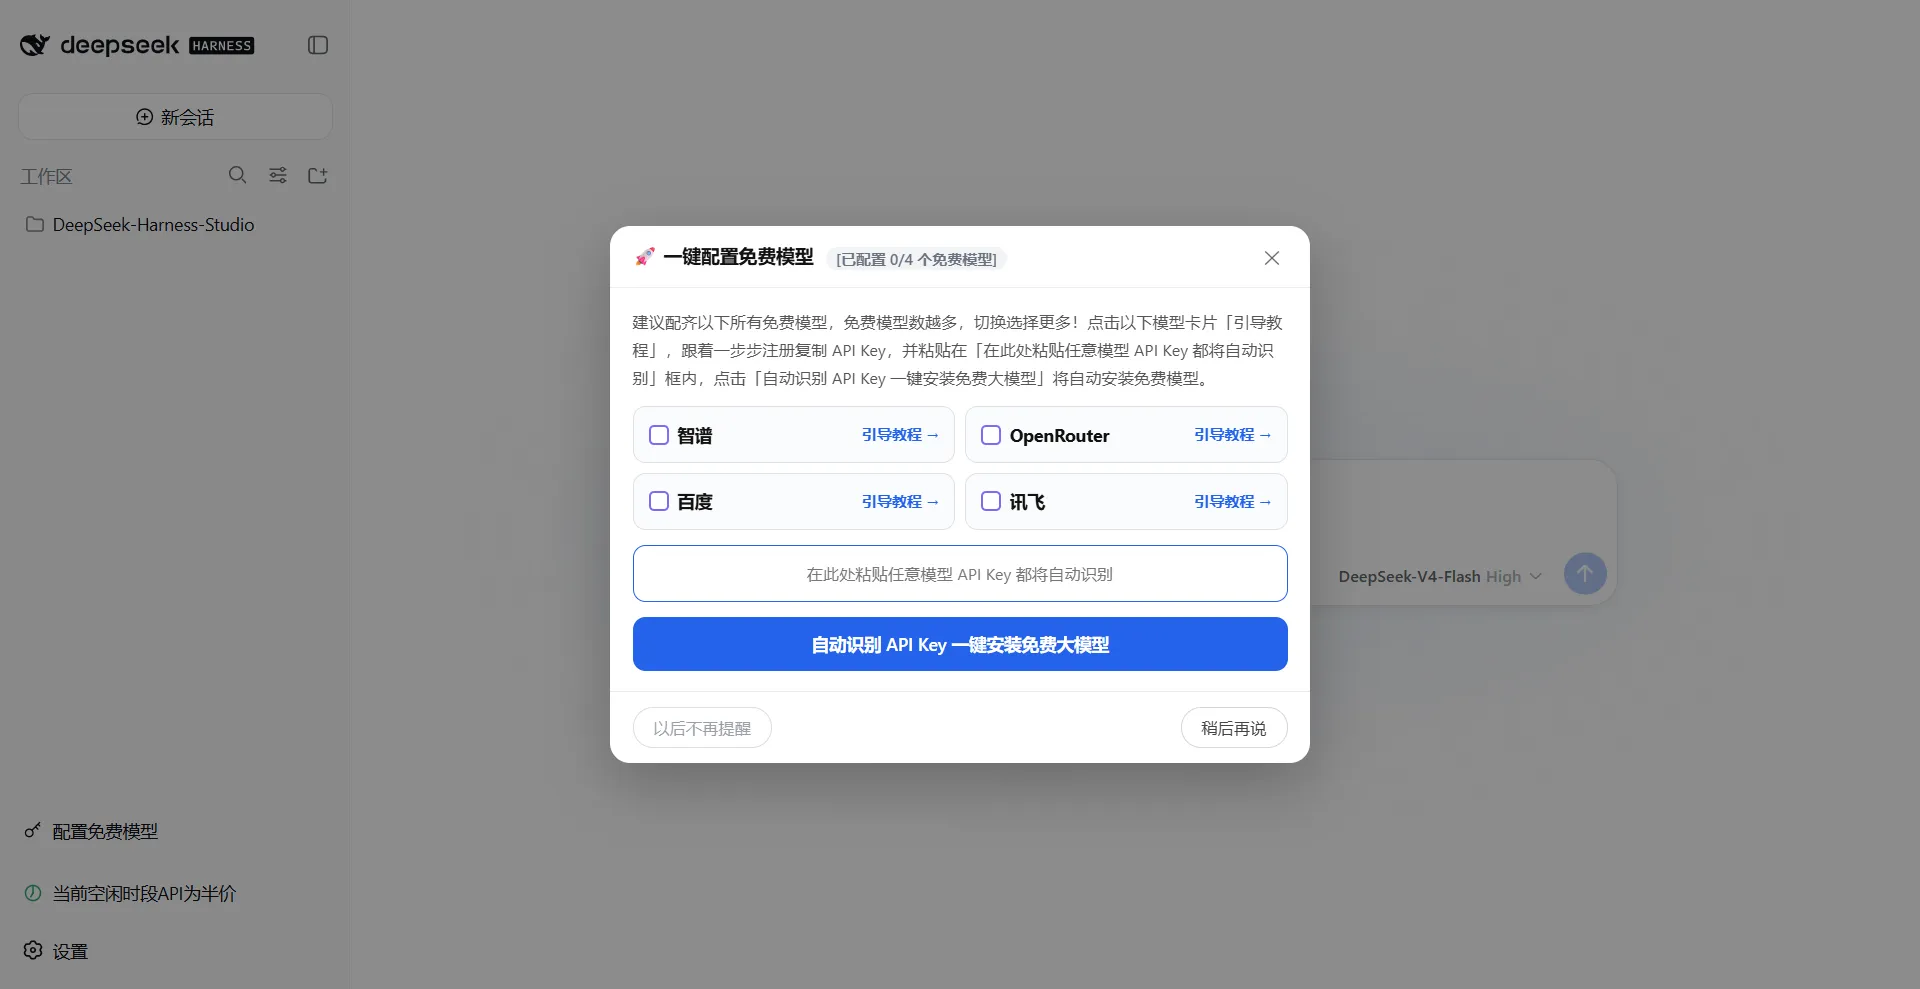
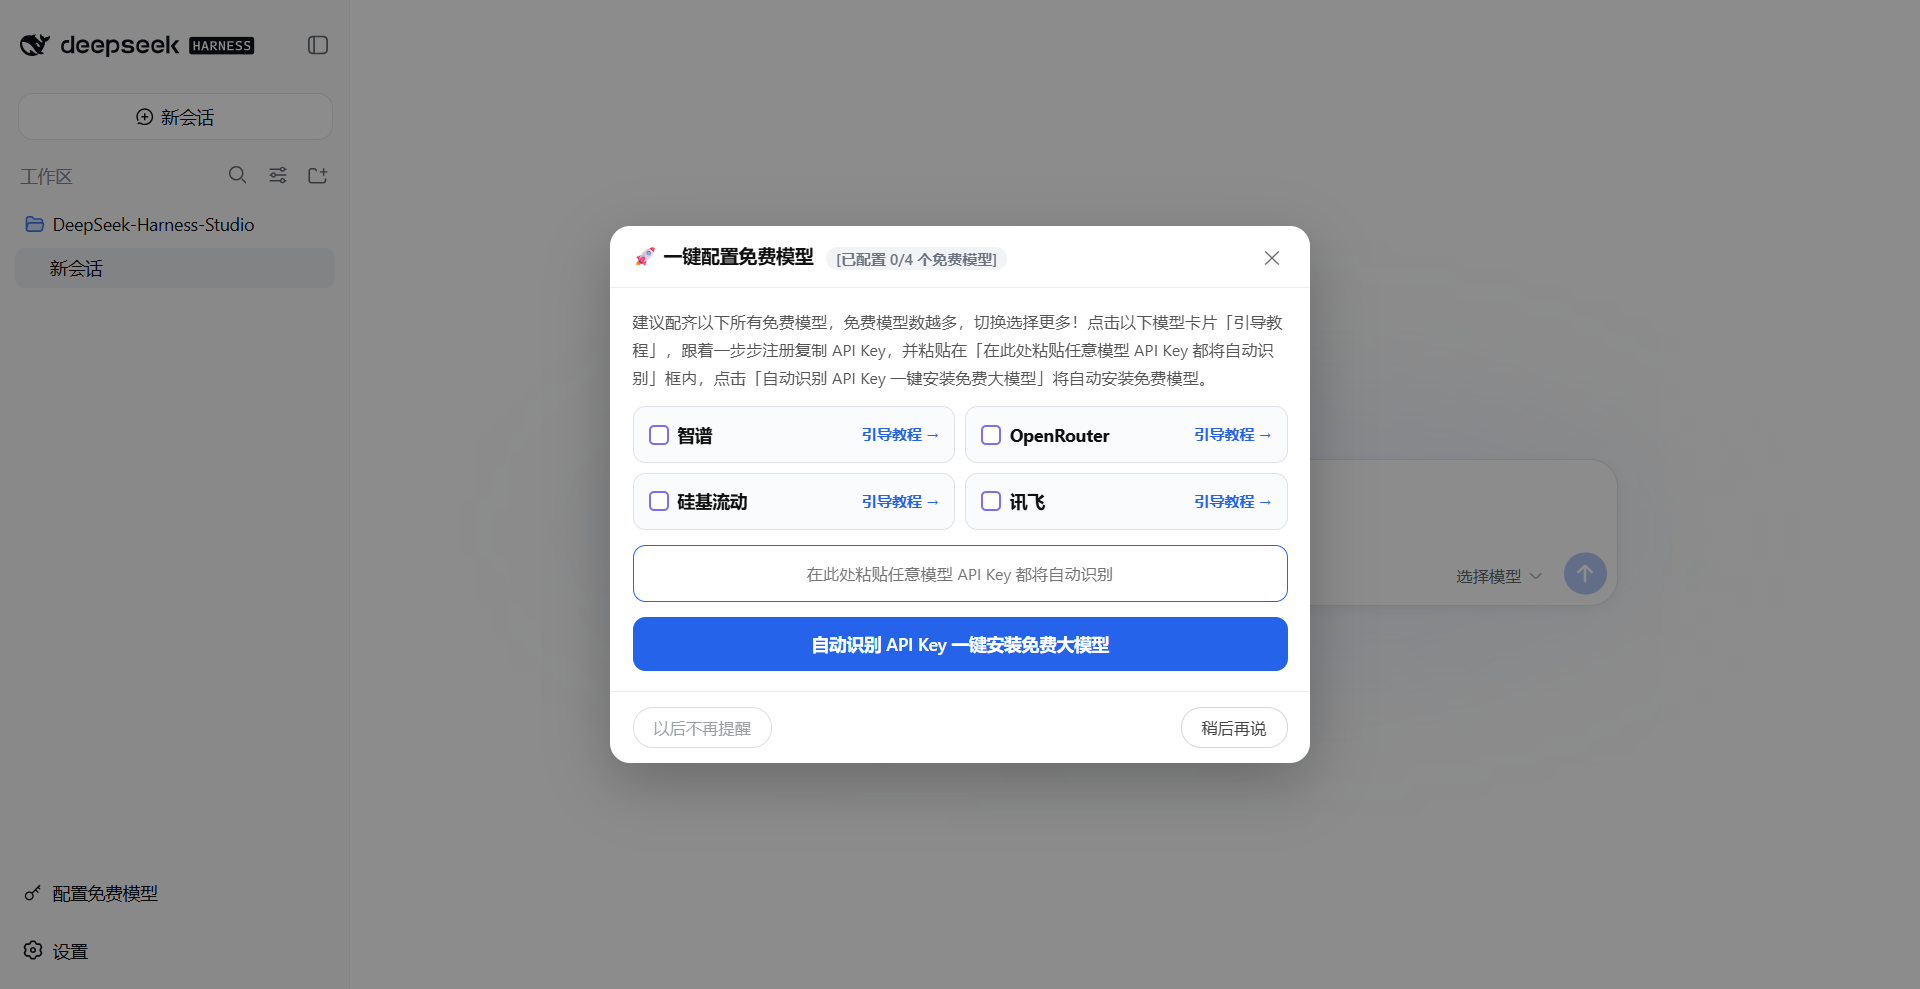
v1.8.5 最终版：测速阈值优化 + 状态指示器样式修复 + README更新
- 测速阈值调整：正常<8秒（原<3秒），较慢8-15秒（原3-8秒），适配国内免费模型
- 状态指示器样式修复：div改回button，恢复右半边圆弧
- 三色球位置移到模型名后面（如'智谱🟢正常'）
- 修复 AUTO_SWITCH_THRESHOLD 未定义 bug（死代码清理残留）
- 讯飞模型 ID 修复：spark-lite → lite（实测正确）
- README更新：删除版本更新历史，只保留当前版本/兼容版本/系统要求
- README更新：讯飞格式说明改为'英文冒号'，'自动工作'改为'自动开始测速监测'
- README更新：状态提示文案更新（三色球在模型名后面），状态判定说明更新
- 截图更新：1.png/2.png/3.png 替换为最新UI（去掉百度模型）

diff --git a/lib/client.js b/lib/client.js
@@ -272,8 +272,8 @@ window.__ModuleLoader__.load({
 		// 记录最近 5 次响应时间取平均，状态判定：<3000ms=可用 / 3000-8000ms=较慢 / >8000ms或超时=不可用。
 		// 定期测速并记录状态，供 UI 组件展示当前模型健康度。
 		const HEALTH_CHECK_INTERVAL = 60000; // 60秒测速一次
-		const HEALTH_LATENCY_OK = 3000;       // <3s = 可用
-		const HEALTH_LATENCY_SLOW = 8000;     // 3-8s = 较慢，>8s = 不可用
+		const HEALTH_LATENCY_OK = 8000;       // <8s = 可用（国内免费模型适配）
+		const HEALTH_LATENCY_SLOW = 15000;    // 8-15s = 较慢，>15s = 不可用
 		const HEALTH_TIMEOUT = 15000;          // 单次测速超时 15s
 		const HEALTH_HISTORY_SIZE = 5;         // 保留最近 5 次测速结果
 
@@ -366,7 +366,7 @@ window.__ModuleLoader__.load({
 			} else {
 				// 测速失败：连续失败计数+1
 				s.consecutiveUnavailable = (s.consecutiveUnavailable || 0) + 1;
-				if (s.latencies.length === 0 || s.consecutiveUnavailable >= AUTO_SWITCH_THRESHOLD) s.status = "unavailable";
+				if (s.latencies.length === 0 || s.consecutiveUnavailable >= 2) s.status = "unavailable";
 			}
 		}
 
@@ -1024,22 +1024,29 @@ window.__ModuleLoader__.load({
 			const displayText = s.status === "unavailable"
 				? (fastestName ? currentModelName + "超时，建议换" + fastestName : currentModelName + "超时")
 				: currentModelName + statusLabel;
+			// v1.8.5: 状态文字（不含模型名），用于"模型名+三色球+状态"排列
+			const statusTextAfter = s.status === "unavailable"
+				? (fastestName ? "超时，建议换" + fastestName : "超时")
+				: statusLabel;
 
 			return (0, react_jsx_runtime.jsx)("div", {
 				style: { display: "flex", flexDirection: "column", gap: "2px", width: "100%" },
-				children: (0, react_jsx_runtime.jsxs)("div", {
+				children: (0, react_jsx_runtime.jsxs)("button", {
+					type: "button",
 					style: {
 						display: "flex", alignItems: "center", justifyContent: "flex-start",
 						width: "100%", padding: "6px 10px", borderRadius: "8px",
 						border: "1px solid " + (s.status === "unavailable" ? "#f5c6c6" : (s.status === "slow" ? "#f5d7a0" : "#c8e6c9")),
 						background: s.status === "unavailable" ? "#fff0f0" : (s.status === "slow" ? "#fff8e1" : "#f1f8f2"),
 						cursor: "default",
-						fontSize: "11px", color: "#333", transition: "all 0.15s"
+						fontSize: "11px", color: "#333", transition: "all 0.15s",
+						fontFamily: "inherit", lineHeight: "inherit", appearance: "none"
 					},
 					children: [
-						(0, react_jsx_runtime.jsxs)("span", { style: { display: "flex", alignItems: "center", gap: "4px" }, children: [
+						(0, react_jsx_runtime.jsxs)("span", { style: { display: "flex", alignItems: "center" }, children: [
+							(0, react_jsx_runtime.jsx)("span", { style: { fontWeight: 600 }, children: currentModelName }),
 							(0, react_jsx_runtime.jsx)("span", { children: statusText }),
-							(0, react_jsx_runtime.jsx)("span", { style: { fontWeight: 600 }, children: displayText })
+							(0, react_jsx_runtime.jsx)("span", { style: { fontWeight: 600 }, children: statusTextAfter })
 						]})
 					]
 				})

diff --git a/README.md b/README.md
@@ -9,19 +9,13 @@
 ## 主要功能
 
 1. **【零门槛】** 一键安装 DSH 及本工具，桌面自动生成快捷方式；
-2. **【零费用】** 一键接入多款国内可访问的永久免费大模型（智谱 / 硅基流动 / 讯飞星火 / OpenRouter / ……），配置后自动测速、故障自动切换；
+2. **【零费用】** 一键接入多款国内可访问的永久免费大模型（智谱 / 硅基流动 / 讯飞星火 / OpenRouter / ……），配置后自动测速、超时智能提示；
 3. **【零失控】** 若选择调用 DeepSeek 官方模型 API，将在 DSH 界面实时提示当前是高峰时段（原价）还是空闲时段（半价）；
 4. **【零困惑】** 小白帮助中心汇总 DSH 官方资料与社区精选资源，新手快速上手。
 
 ## 当前版本与兼容范围
 
-- 当前版本：**v1.8.4**
-- **v1.8.4 更新**：接入硅基流动 SiliconFlow（15+款9B以下小模型永久免费，国内直连，OpenAI兼容，默认接入Qwen/Qwen3-8B），免费模型选择更丰富更稳定。
-- **v1.8.3 修复**：①修复智谱 API Key 识别失败（智谱 Key 格式为 `{id}.{secret}` 带点号，旧正则只匹配纯字母数字）；②修复 OpenRouter 模型 ID（从 `openrouter/free` 改为 `openrouter/auto` 自动路由，测速请求添加 `route:free` 参数限定免费模型）；③自动切换失败时输出 console.warn 便于排查，不再静默忽略。
-- **v1.8.0 新增**：「免费模型管家中心」上线——后台定期对所有已配置免费模型发极小请求测速，当前模型连续 2 次不可用时自动切换到最快可用模型，侧边栏实时显示当前模型状态（🟢正常 / 🟡较慢 / 🔴不可用），点击可一键手动切换。
-- **v1.8.0 新增**：接入硅基流动 SiliconFlow（15+款9B以下小模型永久免费，国内直连）和讯飞星火 Spark Lite（永久免费，中文理解强），免费模型从 2 款扩充到 4 款。
-- **v1.8.0 新增**：API Key 一键识别安装——在大粘贴框粘贴任意模型的 API Key，插件自动识别属于哪个模型并一键安装，无需逐个填写。
-- **v1.8.0 新增**：4 款免费模型专属图文教程页（智谱 / OpenRouter / 硅基流动 / 讯飞星火），手把手引导注册获取 API Key。
+- 当前版本：**v1.8.5**
 - 兼容 DSH 版本：**≥ `0.1.1`**
 - **系统要求**：一键安装脚本支持 **Windows 10 / Windows 11**（`install.bat`）和 **macOS / Linux**（`install.sh`）；插件核心代码本身跨平台，已手动装好 DSH 的用户可通过 `dsh plugin --profile web add /path/to/dsh-0-tools` 手动安装。
 
@@ -61,20 +55,20 @@
 
 ### 第 3 步：获取并安装 API Key
 
-建议配齐以下所有免费模型，免费模型数越多，切换选择更多！点击以下模型卡片「引导教程」，跟着一步步注册复制 API Key，并粘贴在「在此处粘贴任意模型 API Key 都将自动识别」框内，点击「自动识别 API Key 一键安装免费大模型」将自动安装免费模型。
+建议配齐以下所有免费模型，免费模型数越多，切换选择更多！点击以下模型卡片上的「引导教程」按钮，跟着一步步注册复制 API Key（讯飞需复制 APIKey 和 APISecret 两个值，用英文冒号拼接），并粘贴在「在此处粘贴任意模型 API Key 都将自动识别」框内，点击「自动识别 API Key 一键安装免费大模型」将自动安装免费模型。
 
 ![免费模型配置中心 - 四个模型卡片 + 大粘贴框](screenshots/2.png)
 
 > 已配置的模型会显示 ✅ 标记，并提供「一键卸载模型」（二次确认）；未配置的模型显示「引导教程 →」链接。
 
-### 第 4 步：自动切换 + 手动切换，零费用更稳定
+### 第 4 步：智能测速 + 超时提示，零费用更透明
 
-配置好 2 个及以上免费模型后，零号工具的「免费模型管家中心」会自动工作：
+配置好 2 个及以上免费模型后，零号工具的「免费模型管家中心」会自动开始测速监测：
 
 - **自动测速**：后台每 60 秒对所有已配置免费模型发一次 `max_tokens=1` 的极小请求测速，记录最近 5 次响应时间取平均；
-- **自动切换**：当前模型连续 2 次测速不可用时，自动切换到当前最快的可用模型，并在右下角提示「当前模型较慢，已切换新模型」；
-- **手动切换**：侧边栏底部实时显示当前模型状态（🟢正常 / 🟡较慢 / 🔴不可用），点击状态条可一键切换到最快可用模型；
-- **状态判定**：<3 秒 = 可用（🟢），3-8 秒 = 较慢（🟡），>8 秒或超时 = 不可用（🔴）。
+- **超时提示**：当前模型测速超时时，侧边栏底部实时显示「智谱🔴超时，建议换讯飞」（自动找到最快可用的模型），帮助用户及时了解模型健康状况；
+- **状态提示**：侧边栏底部实时显示当前模型状态（智谱🟢正常 / 智谱🟡较慢 / 智谱🔴超时，建议换XX），状态条仅作提示，不可点击；
+- **状态判定**：<8 秒 = 正常（🟢），8-15 秒 = 较慢（🟡），>15 秒或超时 = 超时（🔴）。
 
 ![免费模型管家中心 - 状态指示器](screenshots/3.png)
 
@@ -142,12 +136,12 @@ dsh-0-tools/
 - **配置状态判定**：浏览器端调用官方 `settings.describe` + `credentials.describe`，判断 `llm-pi-ai.providers.{provider}` 是否存在及其凭据是否已配置，作为权威来源；每 5 秒轮询一次刷新界面。
 - **一键配置**：依次经官方 `credentials.set` 写入凭据、`settings.mutate` 写入 provider 配置段、`settings.update` 以合并语义把默认模型切换到对应免费模型（合并语义确保 `reasoningEffort` 等用户已设字段不被抹掉）。
 - **一键卸载**：经官方通道清除 provider 配置段与对应凭据；仅当默认模型此前指向该 provider 时，恢复为配置前记录的原始默认模型，否则保持用户当前选择不变。
-- **API Key 自动识别**：根据 Key 前缀/格式自动识别属于哪个模型（`sk-or-v1-` → OpenRouter，`sk-`（非sk-or-v1-）→ 硅基流动，32 位 hex → 讯飞星火，带点号的长字符串 → 智谱），识别后自动调用一键配置流程。sk-（非sk-or-v1-）→ 硅基流动32 位 hex → 讯飞星火，带点号的长字符串 → 智谱），识别后自动调用一键配置流程。
-- **免费模型管家中心**：后台每 60 秒对所有已配置免费模型发 `max_tokens=1` 极小请求测速，记录最近 5 次响应时间取平均；当前模型连续 2 次不可用时自动切换到最快可用模型；侧边栏实时显示状态并支持手动一键切换。
+- **API Key 自动识别**：根据 Key 前缀/格式自动识别属于哪个模型（`sk-or-v1-` → OpenRouter，`sk-`（非sk-or-v1-）→ 硅基流动，`APIKey:APISecret` 格式或 32 位 hex → 讯飞星火，带点号的长字符串 → 智谱），识别后自动调用一键配置流程。
+- **免费模型管家中心**：后台每 60 秒对所有已配置免费模型发 `max_tokens=1` 极小请求测速，记录最近 5 次响应时间取平均；当前模型超时时智能提示建议切换到最快可用模型；侧边栏实时显示状态（仅作提示，不可点击）。
 - **失效残留清理**：配置中心检测本地是否残留已下线/失效的模型 provider（动态读取其 `apiKeyEnv`，不再依赖本地静态清单），在界面给出「失效残留」提示并提供一键清理，避免孤儿配置无法删除。
 - **设置页签**：通过 `settings.section` 插槽注入（官方插件同款机制），id 为 `dsh-0-tools`，页签名「零号工具」。
 - **帮助中心**：拉取 `https://ai-yukin.github.io/dsh-0-tools/help.json`，经统一过滤器 `filterRemotePayload` 逐字段安检（URL 强制 https、文本拒绝控制字符/换行、模型 id 与凭据名走字符白名单）后再进入界面与配置链，失败或不合规时回退内置数据；可配置模型清单与已下线模型清单均由此远程数据驱动，新增或下线模型无需重装插件。
-- **教程页双链接 fallback**：教程页链接优先使用 Gitee Pages（国内访问快），Gitee 不可用时自动 fallback 到 GitHub Pages，确保国内用户始终能访问教程。
+- **教程页托管**：教程页统一托管于 GitHub Pages（`https://ai-yukin.github.io/dsh-0-tools/guide/`），国内用户可通过 Gitee 镜像仓库下载源码后本地查看教程。
 
 ## 免责声明
 
